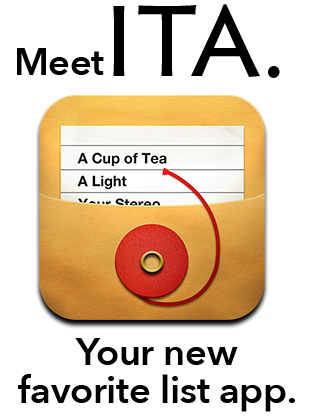
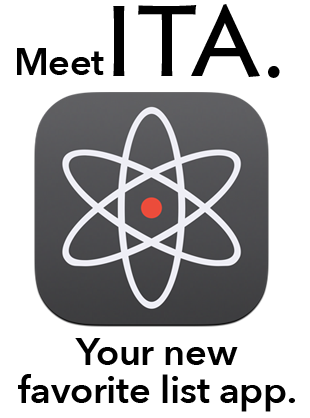
Images for Ita page replaced. Not quite all of them yet.

diff --git a/source/stylesheets/ita-stylesheet.css b/source/stylesheets/ita-stylesheet.css
@@ -19,7 +19,10 @@ menu, footer, header, nav, section, summary, time, mark, audio, video {
 	border: 0;
 }
 
-html{ background:url(../images/background.jpg) repeat; }
+html { 
+	/* background:url(../images/background.jpg) repeat;  */
+	background: #d9d9de;
+}
 
 article, aside, canvas, figure, figure img, figcaption, hgroup,
 footer, header, nav, section, audio, video {
@@ -311,8 +314,10 @@ img.settings{ float: right; margin:0 0 0 10px; }
     all and (min-device-pixel-ratio: 1.5) {
 
 	body {
+/*
 		background-image:url(/images/background@2x.jpg);
 		background-size: 411px 155px;
+*/
 	}
 	.iosSlider .slider .item1 .inner {
 		background-image:  url(/images/ita/slides/slide-shadow-ipad@2x.png), url(/images/ita/slides/slide-1@2x.jpg);
